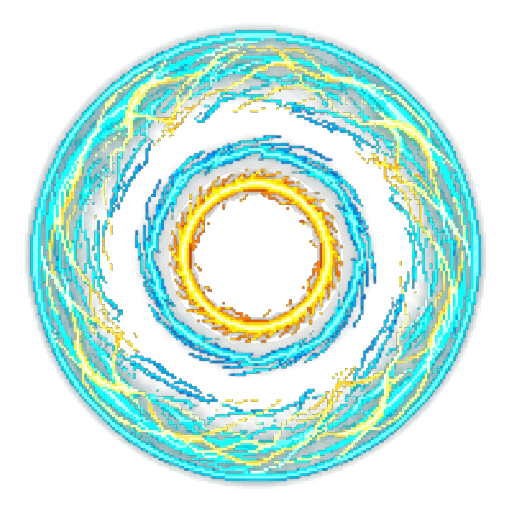
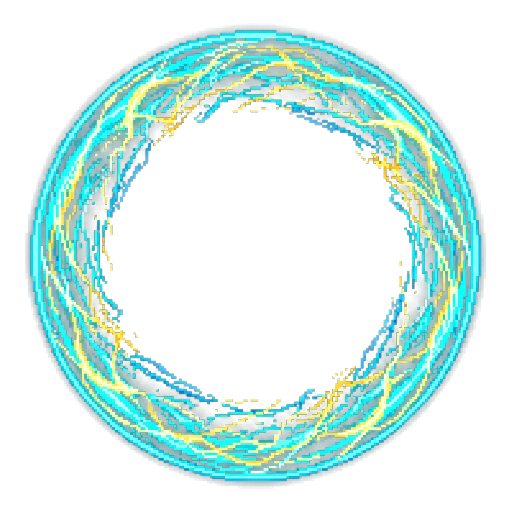
Clear center of aura asset and aura glow for character visibility

diff --git a/lib/game/components/dino_skin_aura.dart b/lib/game/components/dino_skin_aura.dart
@@ -44,11 +44,12 @@ class DinoSkinAuraComponent extends PositionComponent {
         center,
         baseRadius * 1.15,
         [
-          const Color(0xEEFFE600),
-          const Color(0x9900F5FF),
+          const Color(0x00000000), // Transparent center so Nanic is completely visible
+          const Color(0x44FFE600),
+          const Color(0x8800F5FF),
           const Color(0x000044FF),
         ],
-        [0.0, 0.6, 1.0],
+        [0.0, 0.45, 0.8, 1.0],
       );
       canvas.drawCircle(center, baseRadius * 1.15, glowPaint);
     } else {
